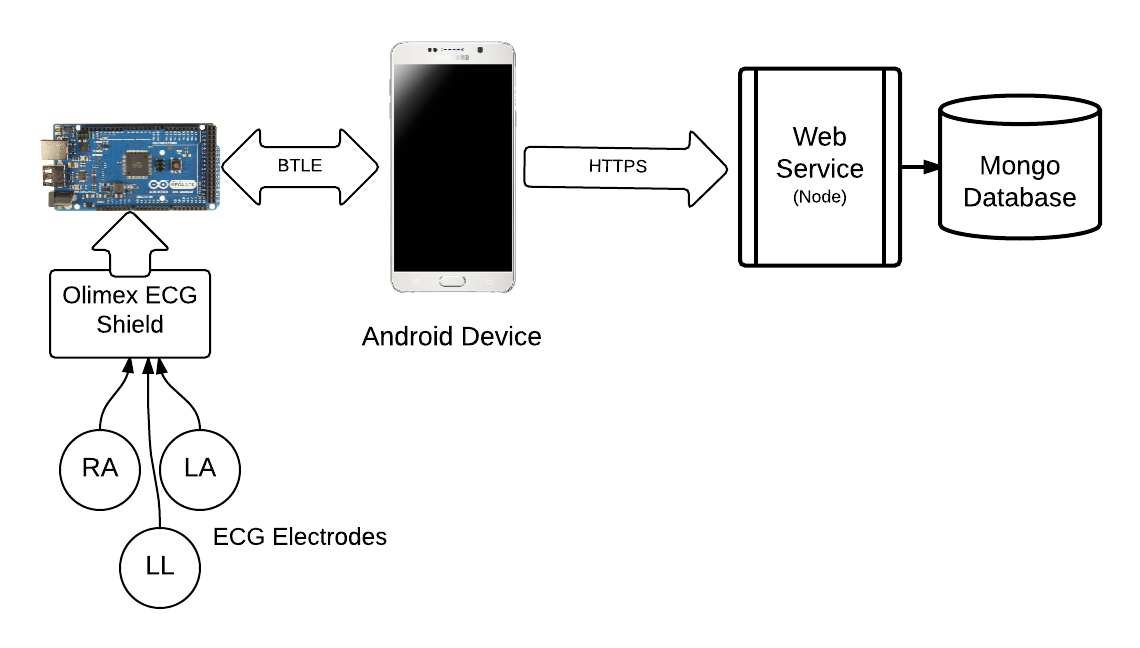
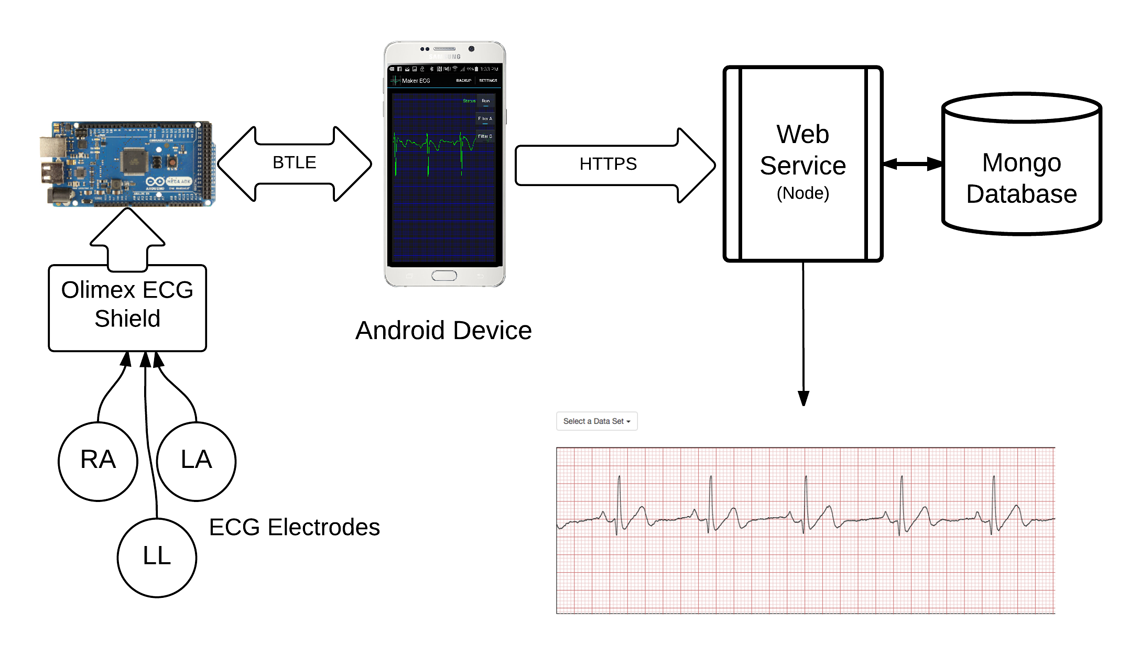
add session handling

diff --git a/src/server/ecgsvc/index.js b/src/server/ecgsvc/index.js
@@ -1,5 +1,6 @@
 var express = require('express'),
     exphbs  = require('express-handlebars'),
+    session = require('express-session'),
     bodyParser = require('body-parser'),
     https = require('https'),
     oauthserver = require('oauth2-server'),
@@ -11,9 +12,33 @@ var express = require('express'),
     mongoose = require('mongoose'),
     nasync = require('async');
 
+
 mongoose.connect(config.mongoConnection);
+
+function restrict(req, res, next) {
+    if (req.session.user) {
+        next();
+    } 
+    else {
+        res.redirect('/login');
+    }
+}
  
 var app = express();
+
+MongoStore = require('connect-mongo/es5')(session);
+
+app.use(session({
+    secret: 'ecg',
+    store: new MongoStore( {
+        url: config.mongoConnection,
+        autoRemove: 'interval',
+        autoRemoveInterval: 120     // minutes
+    }
+    ),
+    resave: true,
+    saveUninitialized: true
+}));
 
 app.engine('handlebars', exphbs({defaultLayout: 'main'}));
 app.set('view engine', 'handlebars');
@@ -31,16 +56,17 @@ app.oauth = oauthserver({
     grants: ['password'],
     debug: false,
     accessTokenLifetime: 3600*24*365,
+    //continueAfterResponse: true
 });
  
 app.all('/oauth/token', app.oauth.grant());
 
 app.get('/login', function (req, res) {
-    res.render('login');
+    res.render('login', {session: req.session});
 });
 
-app.get('/ecg', function (req, res) {
-    res.render('ecg');
+app.get('/ecg', restrict, function (req, res) {
+    res.render('ecg', {session: req.session});
 });
 
 app.post('/api/sampleframe', app.oauth.authorise(), function(req, res) {

diff --git a/src/server/ecgsvc/models/model.js b/src/server/ecgsvc/models/model.js
@@ -1,4 +1,6 @@
 /**
+ * Based on code from:
+ *
  * Copyright 2013-present NightWorld.
  *
  * Licensed under the Apache License, Version 2.0 (the "License");
@@ -21,9 +23,6 @@ var mongoose = require('mongoose'),
 
 var salt = bcrypt.genSaltSync(10);
 
-//
-// Schema definitions
-//
 var OAuthAccessTokensSchema = new Schema({
   accessToken: { type: String },
   clientId: { type: String },
@@ -65,9 +64,6 @@ var OAuthAccessTokensModel = mongoose.model('OAuthAccessTokens'),
 model.OAuthUsersModel = OAuthUsersModel;
 model.OAuthClientsModel = OAuthClientsModel;
 
-//
-// oauth2-server callbacks
-//
 model.getAccessToken = function (bearerToken, callback) {
   //console.log('in getAccessToken (bearerToken: ' + bearerToken + ')');
 
@@ -82,9 +78,9 @@ model.getClient = function (clientId, clientSecret, callback) {
   OAuthClientsModel.findOne({ clientId: clientId, clientSecret: clientSecret }, callback);
 };
 
-// This will very much depend on your setup, I wouldn't advise doing anything exactly like this but
-// it gives an example of how to use the method to restrict certain grant types
+// two simple client ID's for now.
 var authorizedClientIds = ['CLIENT_ID', 'CLIENT_ID2'];
+
 model.grantTypeAllowed = function (clientId, grantType, callback) {
   var result = false;
   //console.log('in grantTypeAllowed (clientId: ' + clientId + ', grantType: ' + grantType + ')');
